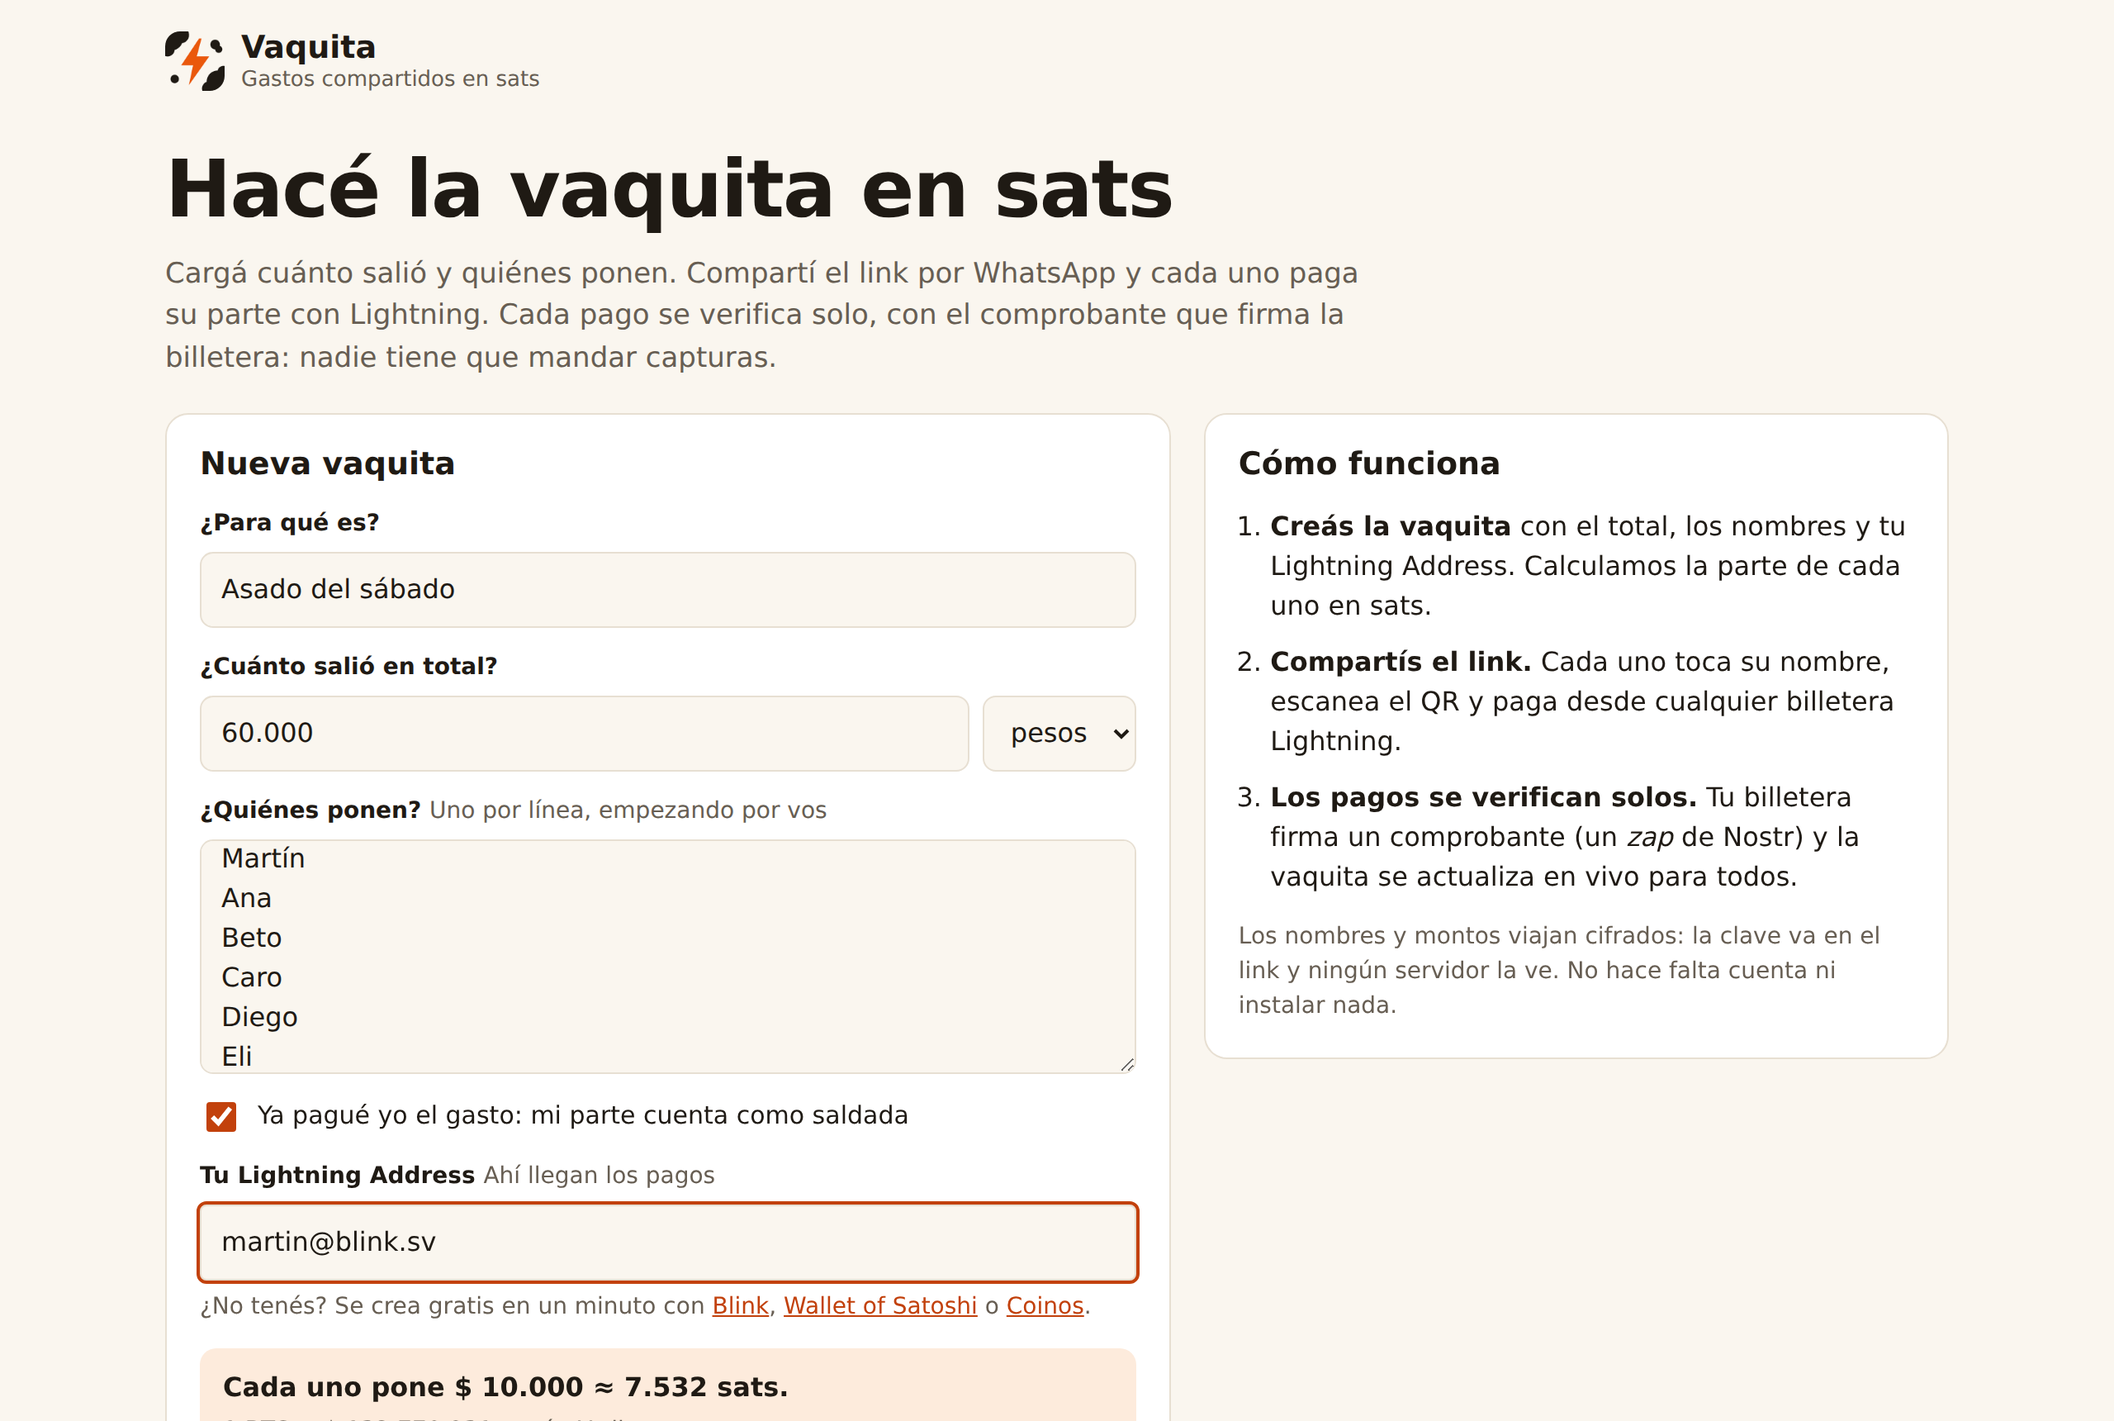
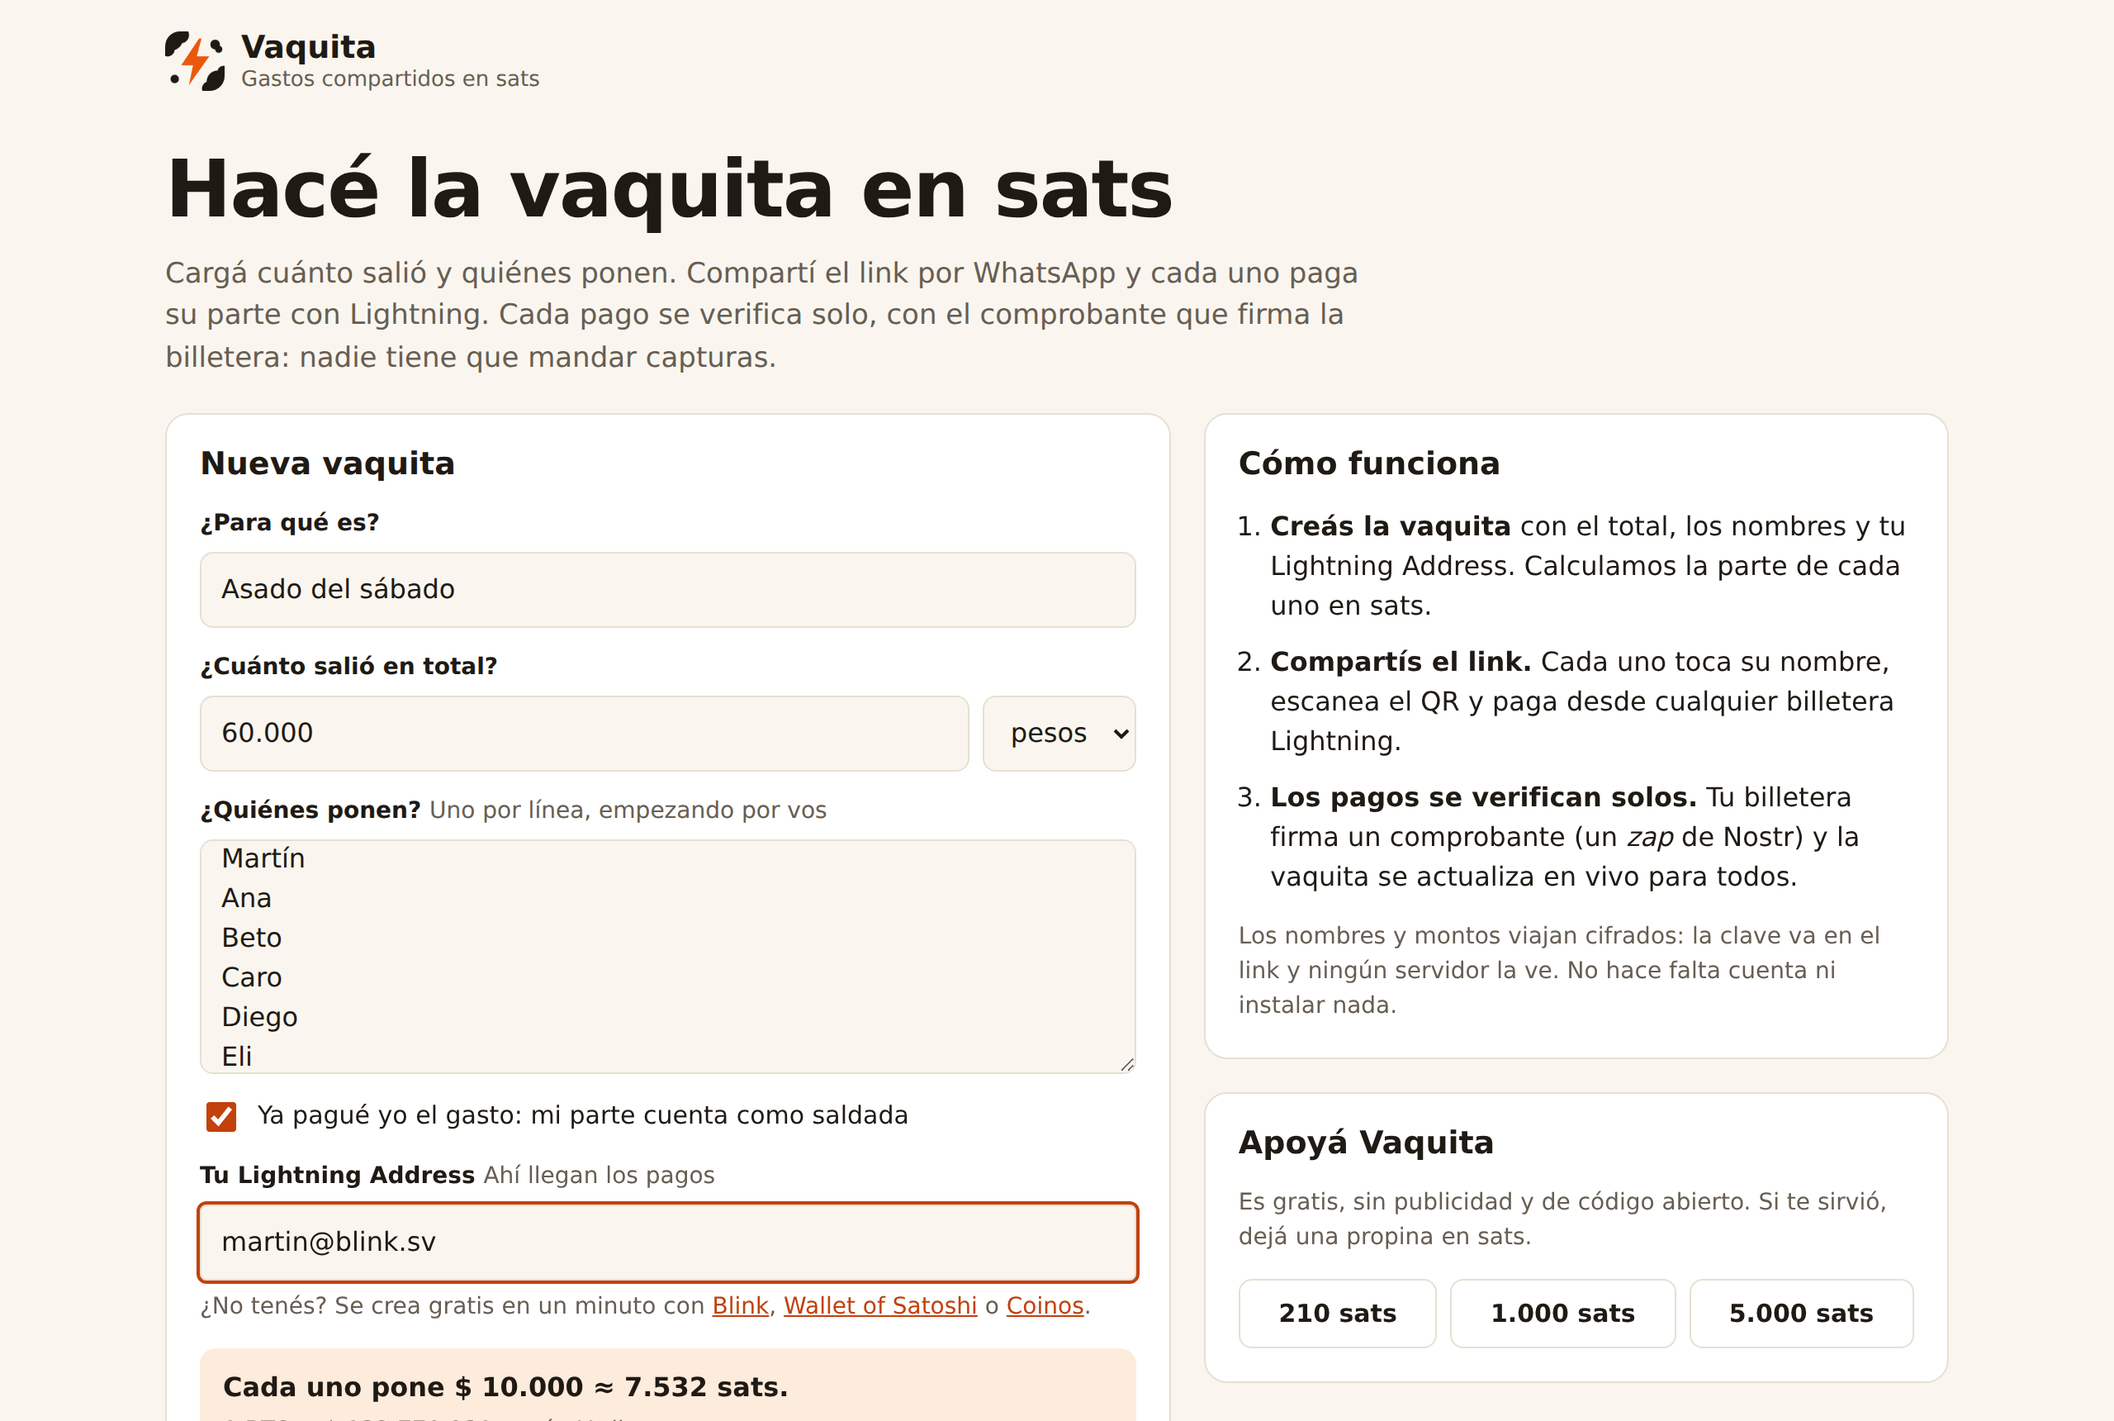
Propinas en sats para el proyecto, confirmadas con el recibo de zap
Panel "Apoyá Vaquita" en el inicio y en cada vaquita. La dirección está en
config.js. Saca la referencia a la hackathon de octubre, que no se hizo.

Claude-Session: https://claude.ai/code/session_01EyR9Zp5wEXuj6qUtafipWx

Changed region(s): [[0.5938, 0.8012, 0.875, 0.9552], [0.8125, 0.8936, 0.875, 0.9552], [0.7188, 0.8936, 0.7812, 0.9552]]

diff --git a/app.js b/app.js
@@ -6,6 +6,7 @@ import { resolverDireccion, armarPedidoZap, pedirFactura, validarRecibo } from '
 import { precioBtcArs } from './precio.js';
 import * as N from './nostr.js';
 import { svgQR } from './qr.js';
+import { PROPINAS } from './config.js';
 
 const $ = (id) => document.getElementById(id);
 const BASE = location.origin + location.pathname;
@@ -439,20 +440,14 @@ async function obtenerInfo(a) {
   return a.info;
 }
 
-async function pagar(id) {
-  const a = app.actual;
-  if (!a?.datos) return;
-  const d = a.datos;
-  const p = L.estadoVaquita(d, [...a.aportes.values()]).personas.find((x) => x.id === id);
-  if (!p) return;
-  const sats = p.estado === 'parcial' ? p.falta : p.sats;
-
+/** Abre el diálogo de pago en estado "generando factura". */
+function abrirDialogo({ id, titulo, sats, pesos, listo, nota }) {
   app.pago = { id, pr: null };
-  $('pago-titulo').textContent = `Pagar la parte de ${p.nombre}`;
+  $('pago-titulo').textContent = titulo;
   $('pago-sats').textContent = L.formatoSats(sats);
-  // La parte completa se muestra en los pesos que cargó quien organiza (sin el redondeo a sats).
-  const pesos = p.estado !== 'parcial' && p.pesos != null ? p.pesos : d.precio ? L.satsAPesos(sats, d.precio.arsPorBtc) : null;
   $('pago-pesos').textContent = pesos != null ? `≈ ${L.formatoPesos(pesos)}` : '';
+  $('pago-listo-titulo').textContent = listo;
+  $('pago-listo-nota').textContent = nota;
   $('pago-qr').replaceChildren();
   $('pago-qr').hidden = true;
   $('pago-cuerpo').hidden = false;
@@ -461,6 +456,30 @@ async function pagar(id) {
   $('pago-webln').hidden = true;
   estadoPago('Generando la factura…', 'esperando');
   if (!dlg.open) dlg.showModal();
+}
+
+/** Muestra la factura (QR, botón a la billetera, copiar, WebLN). */
+function mostrarFactura(pr, espera) {
+  app.pago.pr = pr;
+  $('pago-qr').replaceChildren(svgQR(`lightning:${pr}`.toUpperCase(), { etiqueta: 'QR de la factura Lightning' }));
+  $('pago-qr').hidden = false;
+  $('pago-abrir').href = `lightning:${pr}`;
+  $('pago-abrir').hidden = false;
+  $('pago-copiar').hidden = false;
+  $('pago-webln').hidden = !window.webln;
+  estadoPago(espera, 'esperando');
+}
+
+async function pagar(id) {
+  const a = app.actual;
+  if (!a?.datos) return;
+  const d = a.datos;
+  const p = L.estadoVaquita(d, [...a.aportes.values()]).personas.find((x) => x.id === id);
+  if (!p) return;
+  const sats = p.estado === 'parcial' ? p.falta : p.sats;
+  // La parte completa se muestra en los pesos que cargó quien organiza (sin el redondeo a sats).
+  const pesos = p.estado !== 'parcial' && p.pesos != null ? p.pesos : d.precio ? L.satsAPesos(sats, d.precio.arsPorBtc) : null;
+  abrirDialogo({ id, titulo: `Pagar la parte de ${p.nombre}`, sats, pesos, listo: '¡Pago recibido!', nota: 'Verificado con el comprobante que firmó la billetera de quien organiza.' });
 
   try {
     const info = await obtenerInfo(a);
@@ -471,15 +490,51 @@ async function pagar(id) {
     const plantilla = armarPedidoZap({ info, vaquitaPk: a.pubkey, coordenada: N.coordenada(a.pubkey, a.d), eventoId: a.evento.id, persona: id, sats, relays: a.relays.slice(0, 5) });
     const { pr } = await pedirFactura({ info, sats, pedido: N.firmar(plantilla, sk) });
     if (app.pago?.id !== id || !dlg.open) return;
-    app.pago.pr = pr;
-    if (a.aportes.has(pr)) return pagoConfirmado();
-    $('pago-qr').replaceChildren(svgQR(`lightning:${pr}`.toUpperCase(), { etiqueta: 'QR de la factura Lightning' }));
-    $('pago-qr').hidden = false;
-    $('pago-abrir').href = `lightning:${pr}`;
-    $('pago-abrir').hidden = false;
-    $('pago-copiar').hidden = false;
-    $('pago-webln').hidden = !window.webln;
-    estadoPago('Esperando el pago… Escaneá el QR con tu billetera: se confirma solo.', 'esperando');
+    if (a.aportes.has(pr)) {
+      app.pago.pr = pr;
+      return pagoConfirmado();
+    }
+    mostrarFactura(pr, 'Esperando el pago… Escaneá el QR con tu billetera: se confirma solo.');
+  } catch (e) {
+    if (app.pago?.id === id) estadoPago(e.message || 'No pudimos generar la factura.', 'error');
+  }
+}
+
+/* ---------- Propinas para el proyecto ---------- */
+
+let cerrarPropina = null;
+let infoPropinas = null;
+
+async function propina(sats) {
+  const id = `propina-${sats}`;
+  abrirDialogo({
+    id,
+    titulo: 'Propina para Vaquita',
+    sats,
+    pesos: app.precio ? L.satsAPesos(sats, app.precio.arsPorBtc) : null,
+    listo: '¡Gracias por la propina!',
+    nota: 'Ayuda a mantener Vaquita gratis, sin publicidad y de código abierto.',
+  });
+  try {
+    infoPropinas ??= await resolverDireccion(PROPINAS.direccion);
+    const info = infoPropinas;
+    const relays = relaysPorDefecto();
+    const plantilla = armarPedidoZap({ info, vaquitaPk: PROPINAS.pubkey, persona: 'propina', sats, relays: relays.slice(0, 5), comentario: 'Propina para Vaquita' });
+    const { pr } = await pedirFactura({ info, sats, pedido: N.firmar(plantilla, N.nuevaIdentidad().sk) });
+    if (app.pago?.id !== id || !dlg.open) return;
+    if (info.allowsNostr) {
+      cerrarPropina?.();
+      cerrarPropina = N.escucharRecibos({
+        pubkey: PROPINAS.pubkey,
+        relays,
+        desde: Math.floor(Date.now() / 1000) - 120,
+        onRecibo: (ev) => {
+          const aporte = validarRecibo(ev, { nostrPubkey: info.nostrPubkey, vaquitaPk: PROPINAS.pubkey });
+          if (aporte && app.pago?.pr === aporte.bolt11) pagoConfirmado();
+        },
+      });
+    }
+    mostrarFactura(pr, info.allowsNostr ? 'Esperando el pago… se confirma solo.' : 'Cuando pagues, podés cerrar esta ventana.');
   } catch (e) {
     if (app.pago?.id === id) estadoPago(e.message || 'No pudimos generar la factura.', 'error');
   }
@@ -536,7 +591,15 @@ $('pago-copiar').addEventListener('click', () => app.pago?.pr && copiar(app.pago
 $('pago-webln').addEventListener('click', pagarConWebln);
 $('pago-cerrar').addEventListener('click', () => dlg.close());
 $('pago-ok').addEventListener('click', () => dlg.close());
-dlg.addEventListener('close', () => (app.pago = null));
+dlg.addEventListener('close', () => {
+  app.pago = null;
+  cerrarPropina?.();
+  cerrarPropina = null;
+});
+document.addEventListener('click', (e) => {
+  const b = e.target.closest('button[data-propina]');
+  if (b) propina(Number(b.dataset.propina));
+});
 window.addEventListener('hashchange', enrutar);
 
 const red = () => ($('red').hidden = navigator.onLine);

diff --git a/index.html b/index.html
@@ -102,6 +102,16 @@
             </ol>
             <p class="note">Los nombres y montos viajan cifrados: la clave va en el link y ningún servidor la ve. No hace falta cuenta ni instalar nada.</p>
           </section>
+
+          <section class="panel propina" aria-labelledby="t-propina-inicio">
+            <h2 id="t-propina-inicio">Apoyá Vaquita</h2>
+            <p class="note">Es gratis, sin publicidad y de código abierto. Si te sirvió, dejá una propina en sats.</p>
+            <div class="acciones propina-montos">
+              <button class="btn btn-ghost" type="button" data-propina="210">210 sats</button>
+              <button class="btn btn-ghost" type="button" data-propina="1000">1.000 sats</button>
+              <button class="btn btn-ghost" type="button" data-propina="5000">5.000 sats</button>
+            </div>
+          </section>
         </aside>
       </div>
     </main>
@@ -169,13 +179,23 @@
             <ul id="actividad" class="actividad"></ul>
             <p id="actividad-vacia" class="note">Todavía no entró ningún pago.</p>
           </section>
+
+          <section class="panel propina" aria-labelledby="t-propina-vaquita">
+            <h2 id="t-propina-vaquita">Apoyá Vaquita</h2>
+            <p class="note">Es gratis, sin publicidad y de código abierto. Si te sirvió, dejá una propina en sats.</p>
+            <div class="acciones propina-montos">
+              <button class="btn btn-ghost" type="button" data-propina="210">210 sats</button>
+              <button class="btn btn-ghost" type="button" data-propina="1000">1.000 sats</button>
+              <button class="btn btn-ghost" type="button" data-propina="5000">5.000 sats</button>
+            </div>
+          </section>
         </aside>
       </div>
     </main>
 
     <footer class="foot">
-      <p>Vaquita es software libre (MIT). Los pagos van directo a la billetera de quien organiza: la app nunca toca la plata. Hecho para las <a href="https://github.com/lacrypta/hackathons-2026" target="_blank" rel="noopener">Lightning Hackathons 2026 de La Crypta</a>.</p>
-      <p><a id="link-codigo" href="https://github.com/Peshino2012/vaquita-sats" target="_blank" rel="noopener">Código fuente</a> · Vaquita 1.0</p>
+      <p>Vaquita es software libre (MIT). Los pagos van directo a la billetera de quien organiza: la app nunca toca la plata. Hecho en Argentina con Lightning y Nostr.</p>
+      <p><a id="link-codigo" href="https://github.com/Peshino2012/vaquita-sats" target="_blank" rel="noopener">Código fuente</a> · Vaquita 1.1</p>
     </footer>
   </div>
 
@@ -196,8 +216,8 @@
     </div>
     <div id="pago-listo" class="pago-listo" hidden>
       <p class="tilde" aria-hidden="true">✓</p>
-      <p><strong>¡Pago recibido!</strong></p>
-      <p class="note">Verificado con el comprobante que firmó la billetera de quien organiza.</p>
+      <p><strong id="pago-listo-titulo">¡Pago recibido!</strong></p>
+      <p id="pago-listo-nota" class="note">Verificado con el comprobante que firmó la billetera de quien organiza.</p>
       <button id="pago-ok" class="btn btn-primary" type="button">Listo</button>
     </div>
   </dialog>

diff --git a/e2e/vaquita.spec.js b/e2e/vaquita.spec.js
@@ -175,3 +175,20 @@ test('links rotos o con la clave equivocada', async ({ page }) => {
   await page.goto(link.replace(/v=naddr1[a-z0-9]+/, 'v=naddr1qqqqqq'));
   await expect(page.locator('#cargando-txt')).toContainText('incompleto o roto');
 });
+
+test('propina para el proyecto: factura, QR y confirmación con el recibo de zap', async ({ page }) => {
+  const billetera = crearBilleteraFalsa();
+  const propinas = crearBilleteraFalsa({ dominio: 'walletofsatoshi.com', usuario: 'engagedsheet14' });
+  await preparar(page, billetera);
+  await preparar(page, propinas);
+  await page.goto('./');
+  await page.getByRole('button', { name: '1.000 sats' }).click();
+  const dialogo = page.getByRole('dialog');
+  await expect(dialogo.getByRole('heading')).toHaveText('Propina para Vaquita');
+  await expect(dialogo.getByRole('img', { name: 'QR de la factura Lightning' })).toBeVisible();
+  const { pr, pedido } = propinas.pedidos.at(-1);
+  expect(pedido.tags.find((t) => t[0] === 'amount')[1]).toBe('1000000');
+  expect(pedido.content).toBe('Propina para Vaquita');
+  await publicarEn(RELAY, propinas.recibo(pr));
+  await expect(dialogo.getByText('¡Gracias por la propina!')).toBeVisible();
+});

diff --git a/lightning.js b/lightning.js
@@ -62,17 +62,16 @@ export async function resolverDireccion(direccion, fetchImpl = fetch) {
 }
 
 /** Pedido de zap (kind 9734, sin firmar) para pagar la parte de una persona. */
-export function armarPedidoZap({ info, vaquitaPk, coordenada, eventoId, persona, sats, relays, ahora = Date.now() }) {
+export function armarPedidoZap({ info, vaquitaPk, coordenada, eventoId, persona, sats, relays, comentario = 'Aporte a la vaquita', ahora = Date.now() }) {
   const tags = [
     ['relays', ...relays],
     ['amount', String(sats * 1000)],
     ['lnurl', info.lnurl],
     ['p', vaquitaPk],
-    ['a', coordenada],
   ];
+  if (coordenada) tags.push(['a', coordenada]);
   if (eventoId) tags.push(['e', eventoId]);
   tags.push(['vaquita', persona]);
-  const comentario = 'Aporte a la vaquita';
   return { kind: 9734, created_at: Math.floor(ahora / 1000), tags, content: info.commentAllowed >= comentario.length ? comentario : '' };
 }
 

diff --git a/nostr.js b/nostr.js
@@ -55,6 +55,12 @@ export async function publicarVaquita({ sk, d, contenido, relays, anterior = 0 }
   return evento;
 }
 
+/** Escucha recibos de zap dirigidos a una clave desde un momento dado (propinas). */
+export function escucharRecibos({ pubkey, relays, desde, onRecibo }) {
+  const s = getPool().subscribeMany(relays, { kinds: [9735], '#p': [pubkey], since: desde }, { onevent: onRecibo });
+  return () => s.close();
+}
+
 /** Escucha la vaquita (y sus ediciones) y los recibos de zap dirigidos a ella. */
 export function escuchar({ pubkey, d, relays, onVaquita, onRecibo, onListo }) {
   let pendientes = 2;

diff --git a/sw.js b/sw.js
@@ -1,8 +1,8 @@
 // Service worker: guarda la app para que abra rápido y sin conexión. Los datos
 // (relays, billeteras, cotización) siempre van a la red.
-const VERSION = 'vaquita-v1';
+const VERSION = 'vaquita-v2';
 const APP = [
-  './', 'index.html', 'styles.css', 'app.js', 'logic.js', 'cripto.js', 'lightning.js', 'nostr.js', 'precio.js', 'qr.js',
+  './', 'index.html', 'styles.css', 'app.js', 'logic.js', 'cripto.js', 'lightning.js', 'nostr.js', 'precio.js', 'qr.js', 'config.js',
   'vendor/nostr.js', 'vendor/qrcode.js', 'manifest.webmanifest', 'icons/icon-192.png', 'icons/icon-512.png',
 ];
 

diff --git a/config.js b/config.js
@@ -1,0 +1,7 @@
+// Datos del proyecto. Si hacés un fork, cambiá la dirección de las propinas por la tuya.
+export const PROPINAS = {
+  direccion: 'engagedsheet14@walletofsatoshi.com',
+  // Las propinas se mandan como zaps dirigidos a esta clave pública, solo para
+  // encontrar sus recibos en los relays y confirmar el pago (nadie firma con ella).
[1 lines of base64/hex data omitted]
+};

diff --git a/README.md b/README.md
@@ -3,7 +3,7 @@
 **Dividí un gasto entre amigos, compartí un link y cada uno paga su parte con Lightning. Cada pago se verifica solo con zaps de Nostr: nadie tiene que mandar capturas.**
 
 🌐 **App:** https://peshino2012.github.io/vaquita-sats/
-🏆 Proyecto para [Lightning Hackathons 2026 #8 — INTEGRATION](https://github.com/lacrypta/hackathons-2026) de La Crypta.
+⚡ Si te sirve, podés dejar una propina en sats desde la misma app o a `engagedsheet14@walletofsatoshi.com`.
 
 | Quien organiza (escritorio) | Quien paga (celular) | Pago verificado |
 |---|---|---|
@@ -107,7 +107,7 @@ El workflow [`billeteras-reales`](.github/workflows/billeteras-reales.yml) corre
 npm install
 npm start            # http://127.0.0.1:4173 (con `node e2e/servidor.mjs --relay`, también un relay local)
 npm test             # 23 tests unitarios: montos, cifrado, LNURL, cotización, validación de recibos
-npm run test:e2e     # 5 tests de punta a punta en Chromium con relay local y billetera simulada
+npm run test:e2e     # 6 tests de punta a punta en Chromium con relay local y billetera simulada
 npm run vendor       # regenera vendor/ desde node_modules
 ```
 
@@ -121,6 +121,7 @@ No hay paso de build: la app son módulos ES servidos tal cual, así que el mism
 | `nostr.js` | Publicar y escuchar la vaquita y los recibos en los relays |
 | `precio.js` | Cotización BTC/ARS con tres fuentes |
 | `app.js` | Interfaz |
+| `config.js` | Dirección para las propinas |
 | `e2e/` | Tests de Playwright, relay Nostr local y generador de capturas |
 | `test/` | Tests unitarios y billetera LNURL simulada que firma recibos como una real |
 | `probe/` | Pruebas contra billeteras y relays reales |
@@ -131,6 +132,10 @@ No hay paso de build: la app son módulos ES servidos tal cual, así que el mism
 - La parte de cada uno en sats se fija con la cotización del momento de crear la vaquita.
 - Cualquiera que tenga el link ve los nombres y puede pagar la parte de cualquiera. Es a propósito, porque así se usa entre amigos.
 - Si todos los relays configurados borraran el evento, la vaquita no se podría abrir. Por eso se publica en cuatro relays.
+
+## Propinas
+
+La app tiene un panel "Apoyá Vaquita" para dejar una propina en sats. La propina también se paga como zap, así que la app confirma sola cuando llegó. La dirección está en [`config.js`](config.js): si hacés un fork, cambiala por la tuya.
 
 ## Licencia
 
